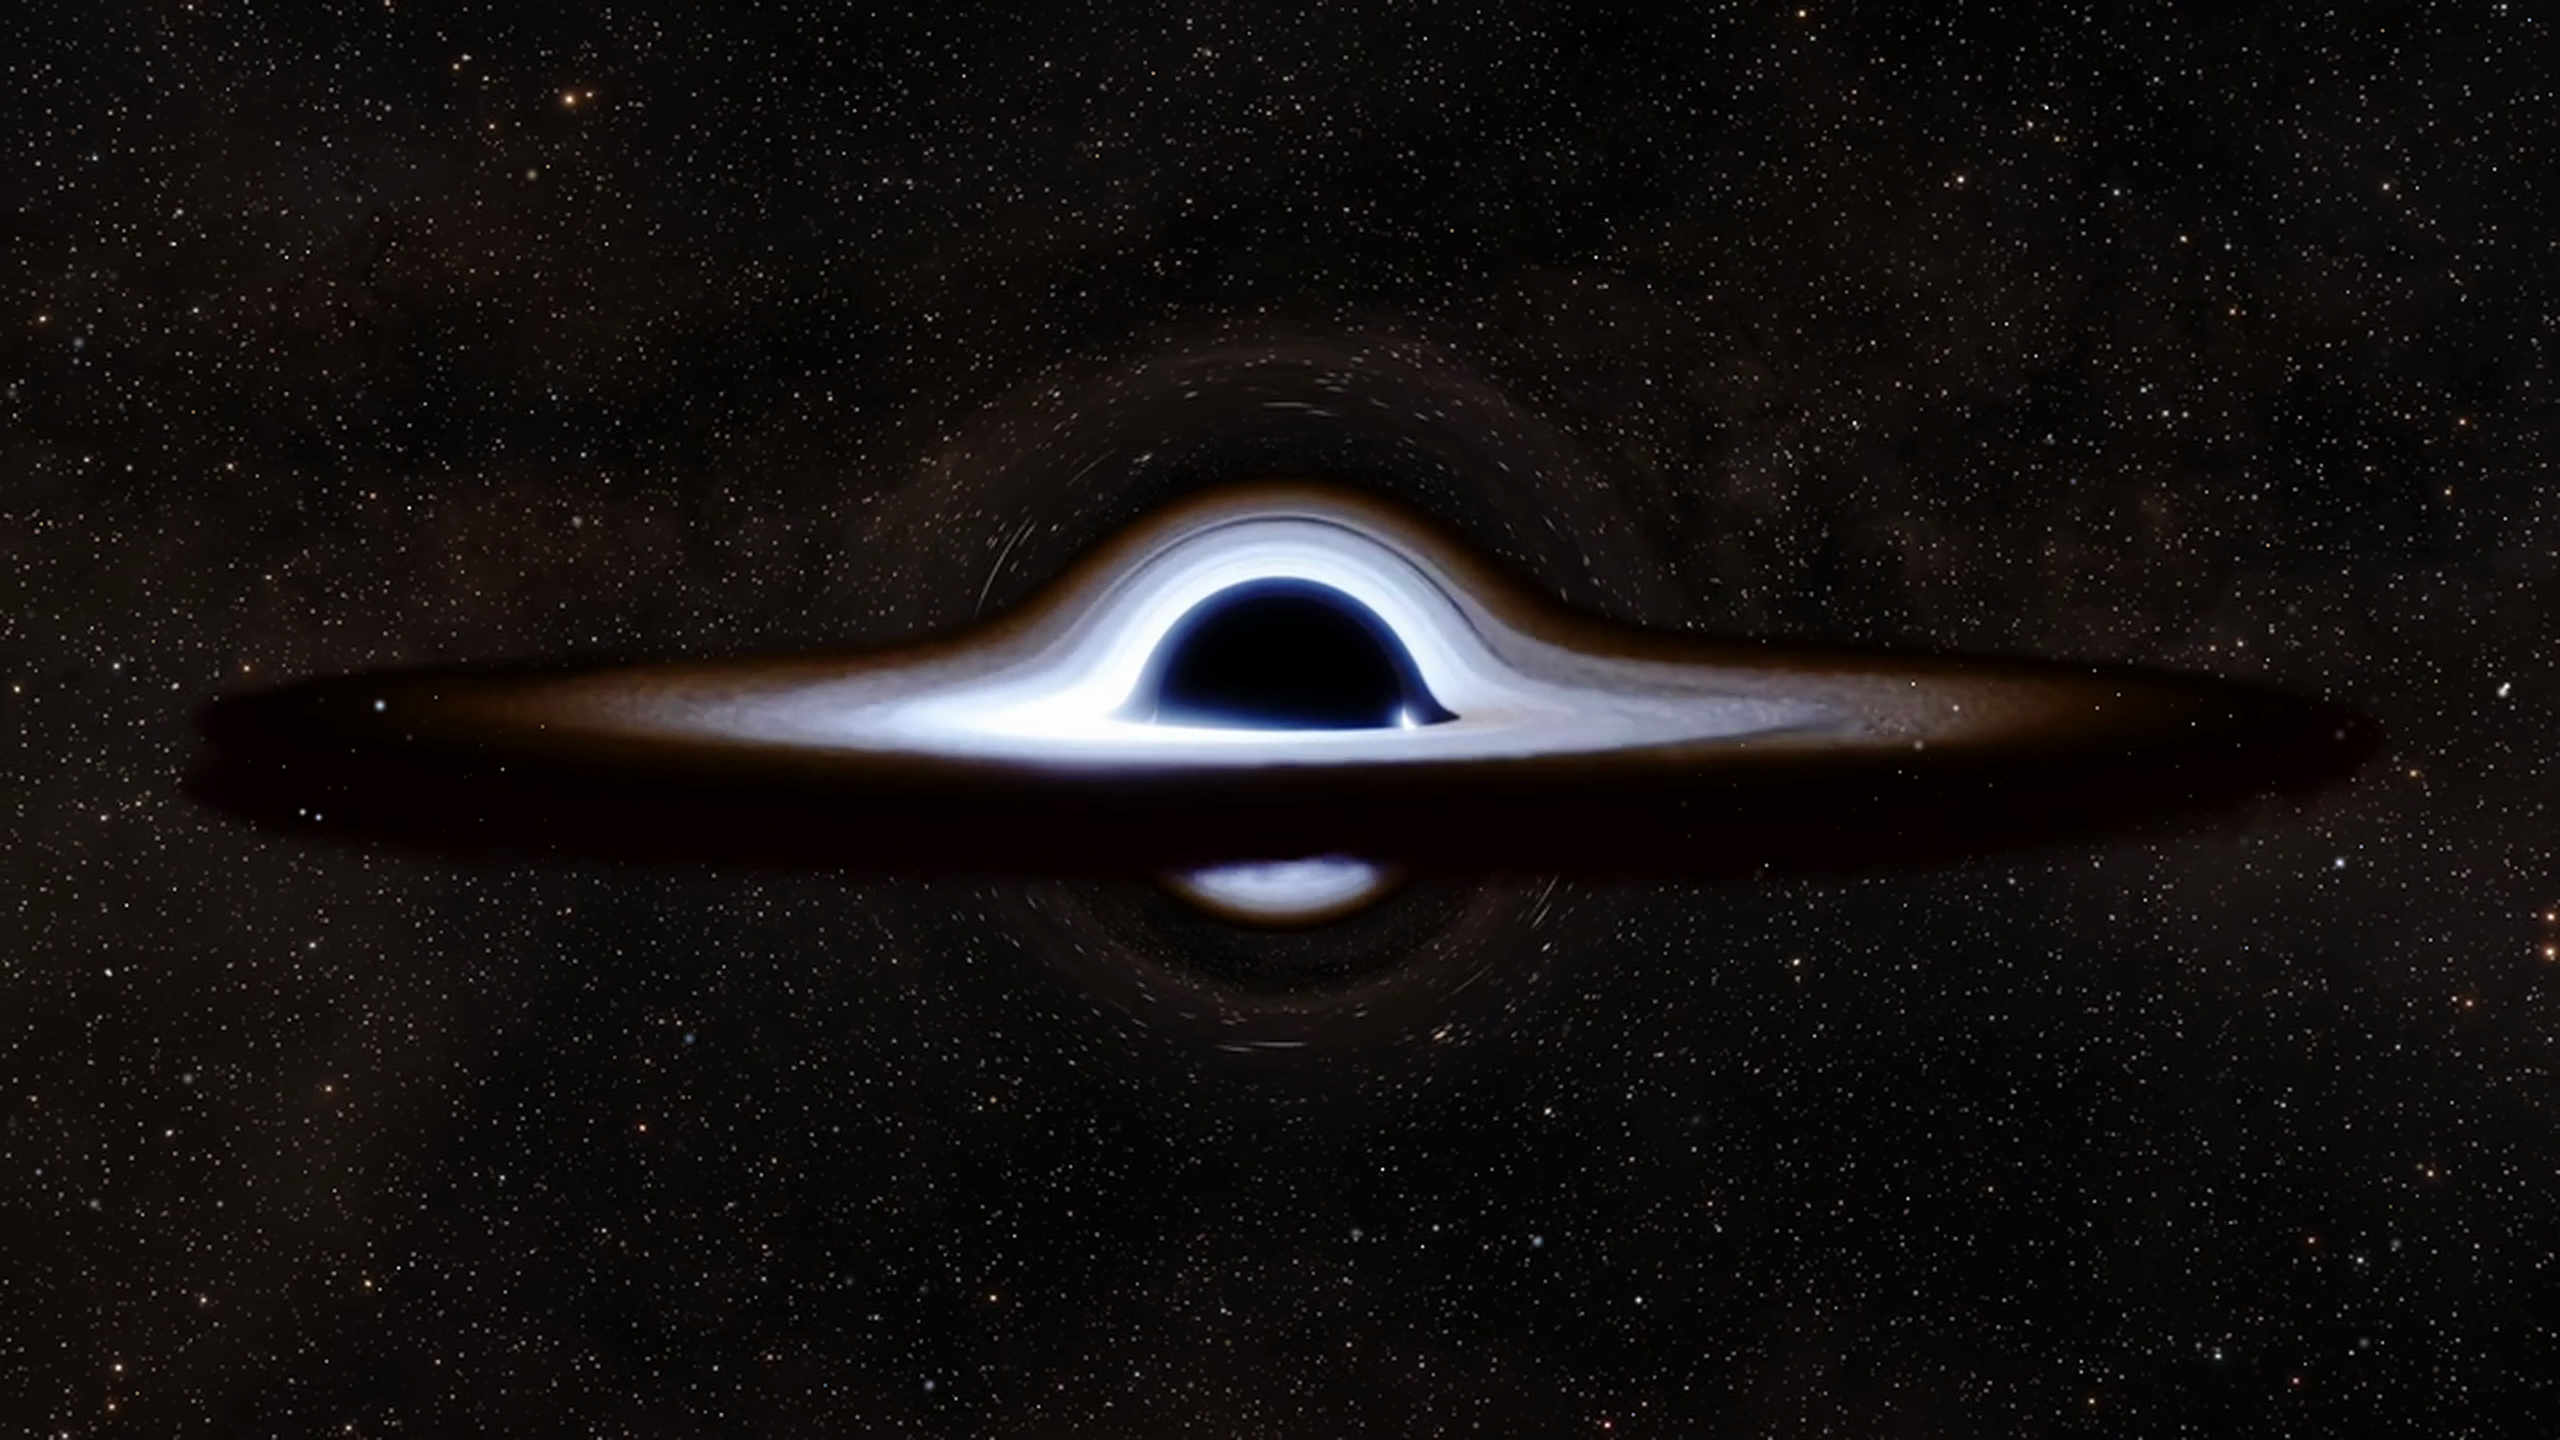
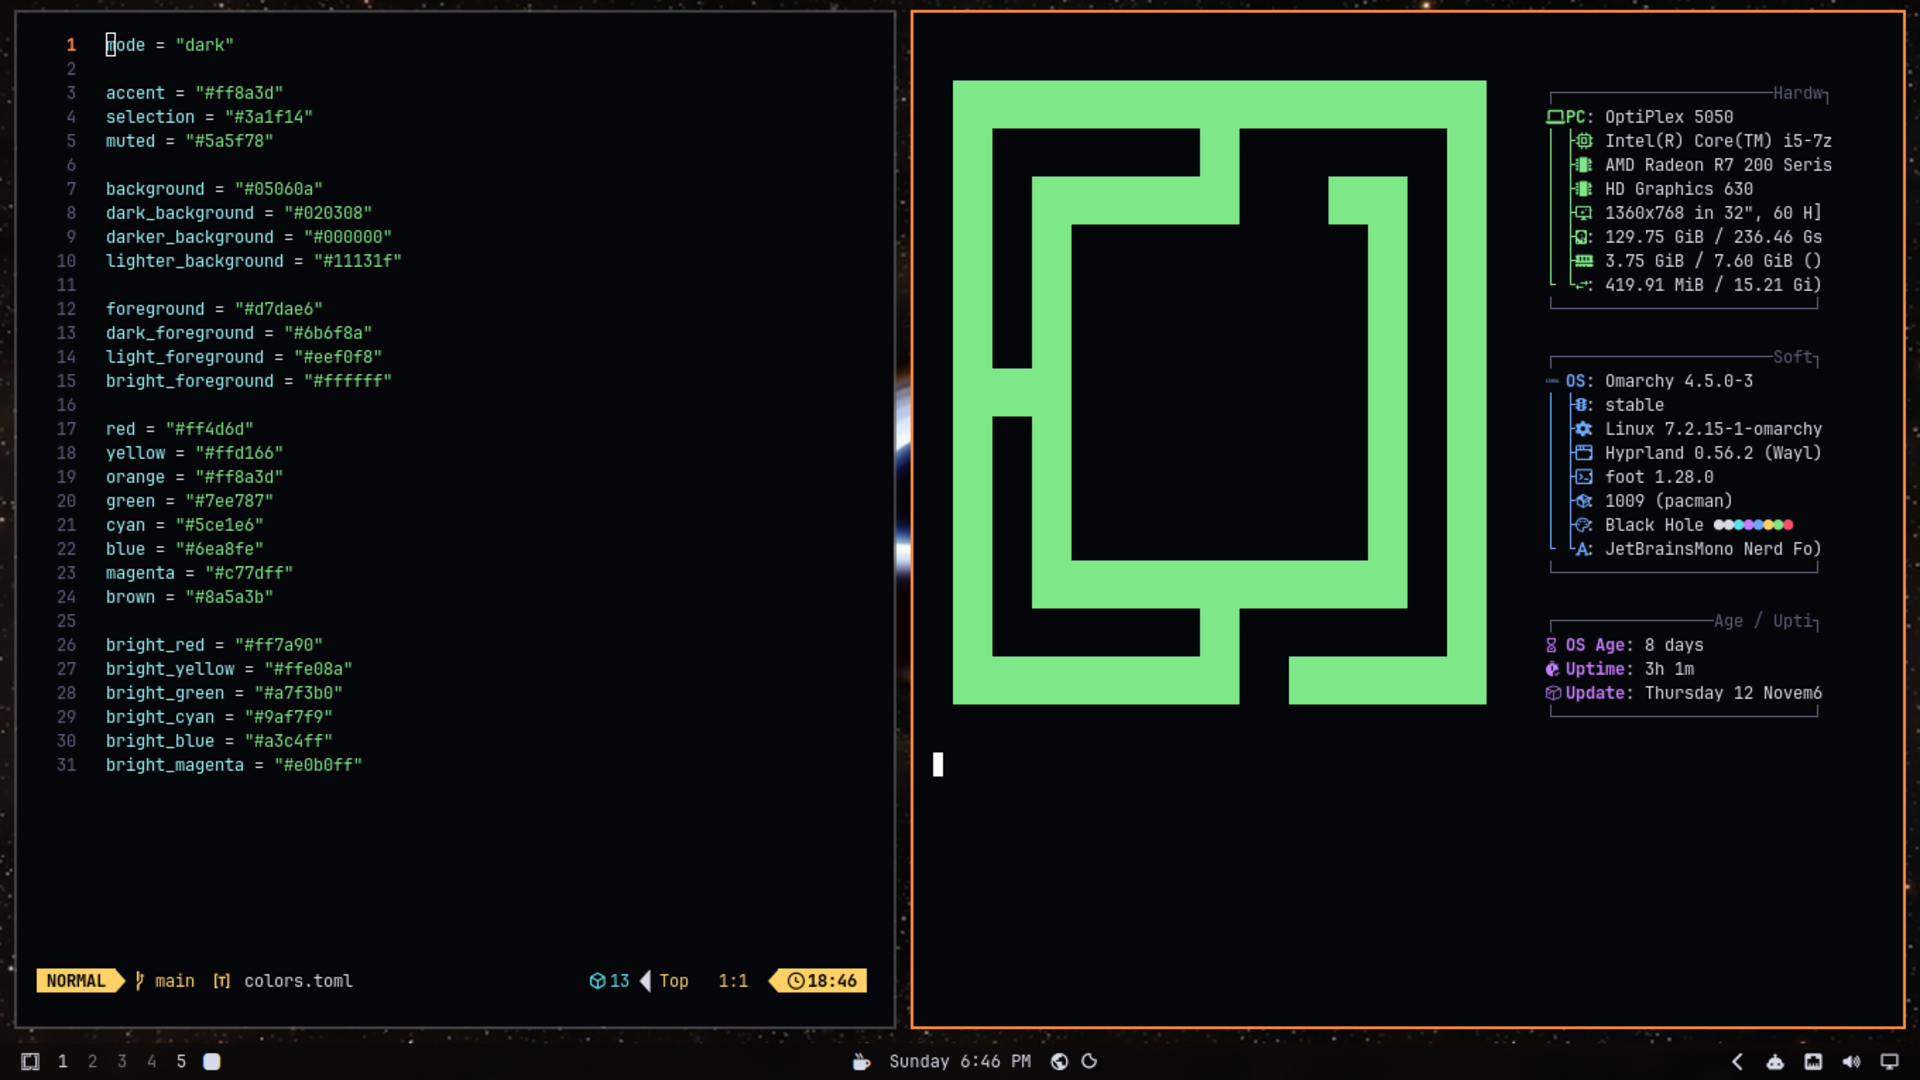
Credit NASA for the wallpaper and use a real session screenshot
The wallpaper is built from NASA's public-domain black hole
visualisation (SVS14619) and Deep Star Maps 2020 (SVS4851), so
credit them instead of claiming an original render, and license
the video as CC0.

Replace the wallpaper-only preview with a screenshot of a real
Omarchy session running Neovim and fastfetch.

diff --git a/README.md b/README.md
@@ -3,7 +3,7 @@
 A deep-space Omarchy theme: near-black blues, cool starlight text and a hot
 orange accent borrowed from the glowing edge of a black hole.
 
-![Black Hole preview](preview.png)
+![Black Hole on the desktop: Neovim showing colors.toml beside a fastfetch terminal](preview.png)
 
 ## Install
 
@@ -41,10 +41,22 @@ Omarchy menu and paste the repository URL.
 ## Credits
 
 - Palette and theme files: made for Omarchy.
-- Black hole wallpaper: original render created for this theme
-  (1920×1080, 30 fps, 13.5 s loop).
+- Black hole wallpaper: built from NASA's public-domain visualisations, then
+  looped, colour-graded and composited for this theme.
+  - *Black Hole with Accretion Disk Visualization* (SVS14619),
+    NASA/Goddard Space Flight Center — [NASA SVS](https://svs.gsfc.nasa.gov/14619),
+    via [Wikimedia Commons](https://commons.wikimedia.org/wiki/File:Black_Hole_with_Accretion_Disk_Visualization_(SVS14619_-_2-Orbiting_a_black_hole-4K).webm).
+  - *Deep Star Maps 2020* (SVS4851), NASA/Goddard Space Flight Center —
+    [NASA SVS](https://svs.gsfc.nasa.gov/4851).
+- Screenshot: a real Omarchy session running Neovim and fastfetch.
+
+NASA does not endorse this theme; the credit is attribution for public-domain
+imagery, not a claim of endorsement.
 
 ## License
 
-The theme files are released under the MIT License; see [LICENSE](LICENSE).
-The background video is covered by the same license unless noted otherwise.
+The theme files (palette, configs, screenshot) are released under the MIT
+License; see [LICENSE](LICENSE).
+
+The background video is a derivative of NASA public-domain imagery and is
+released under [CC0 1.0](https://creativecommons.org/publicdomain/zero/1.0/).
